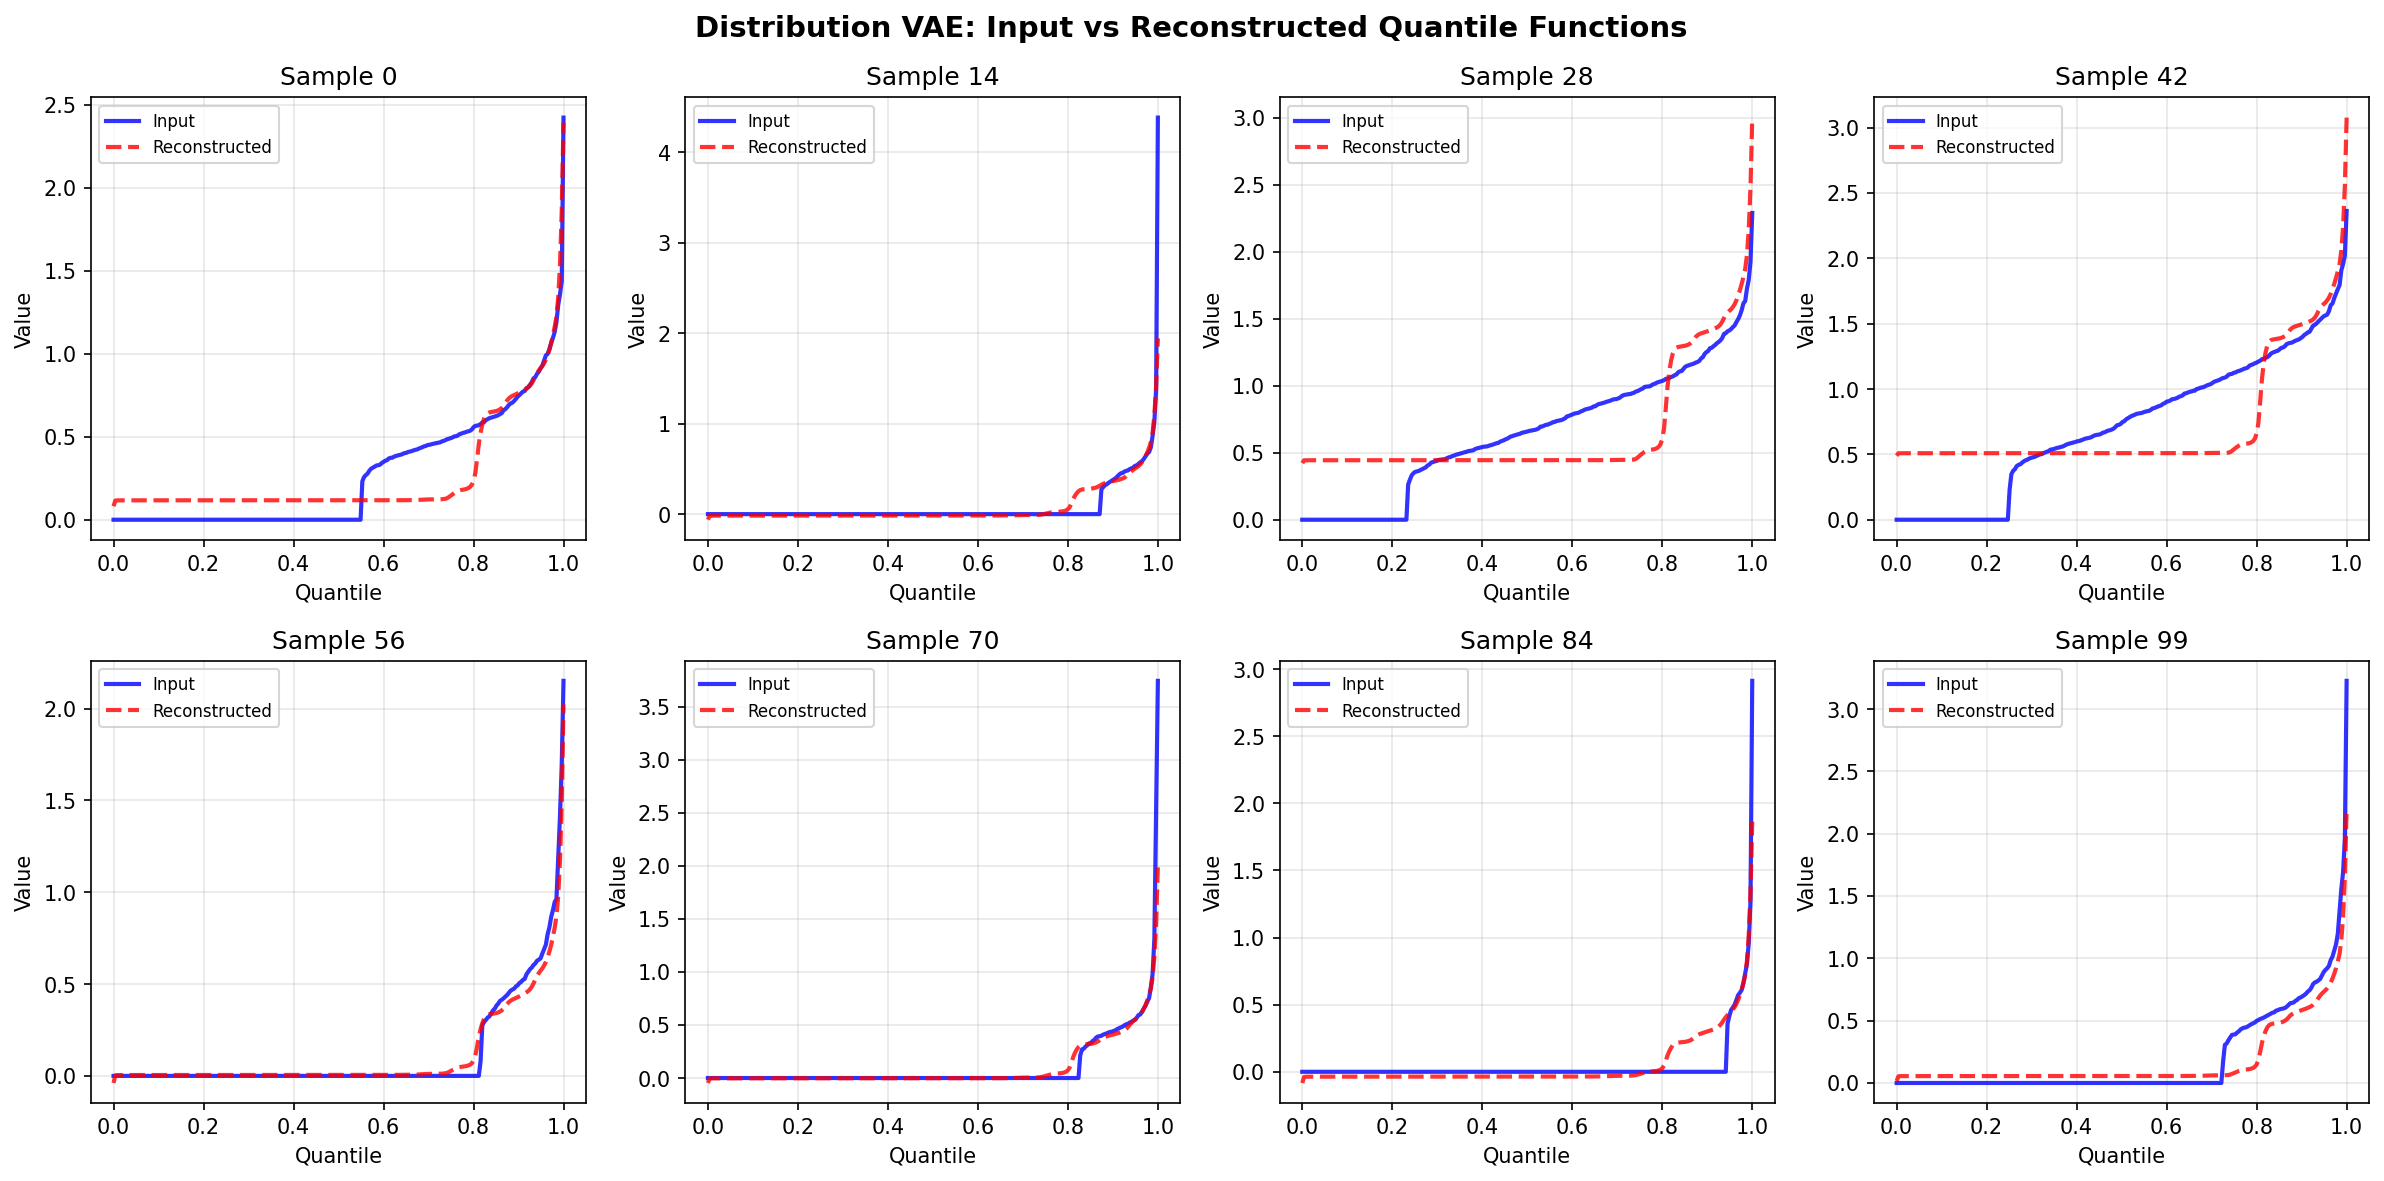
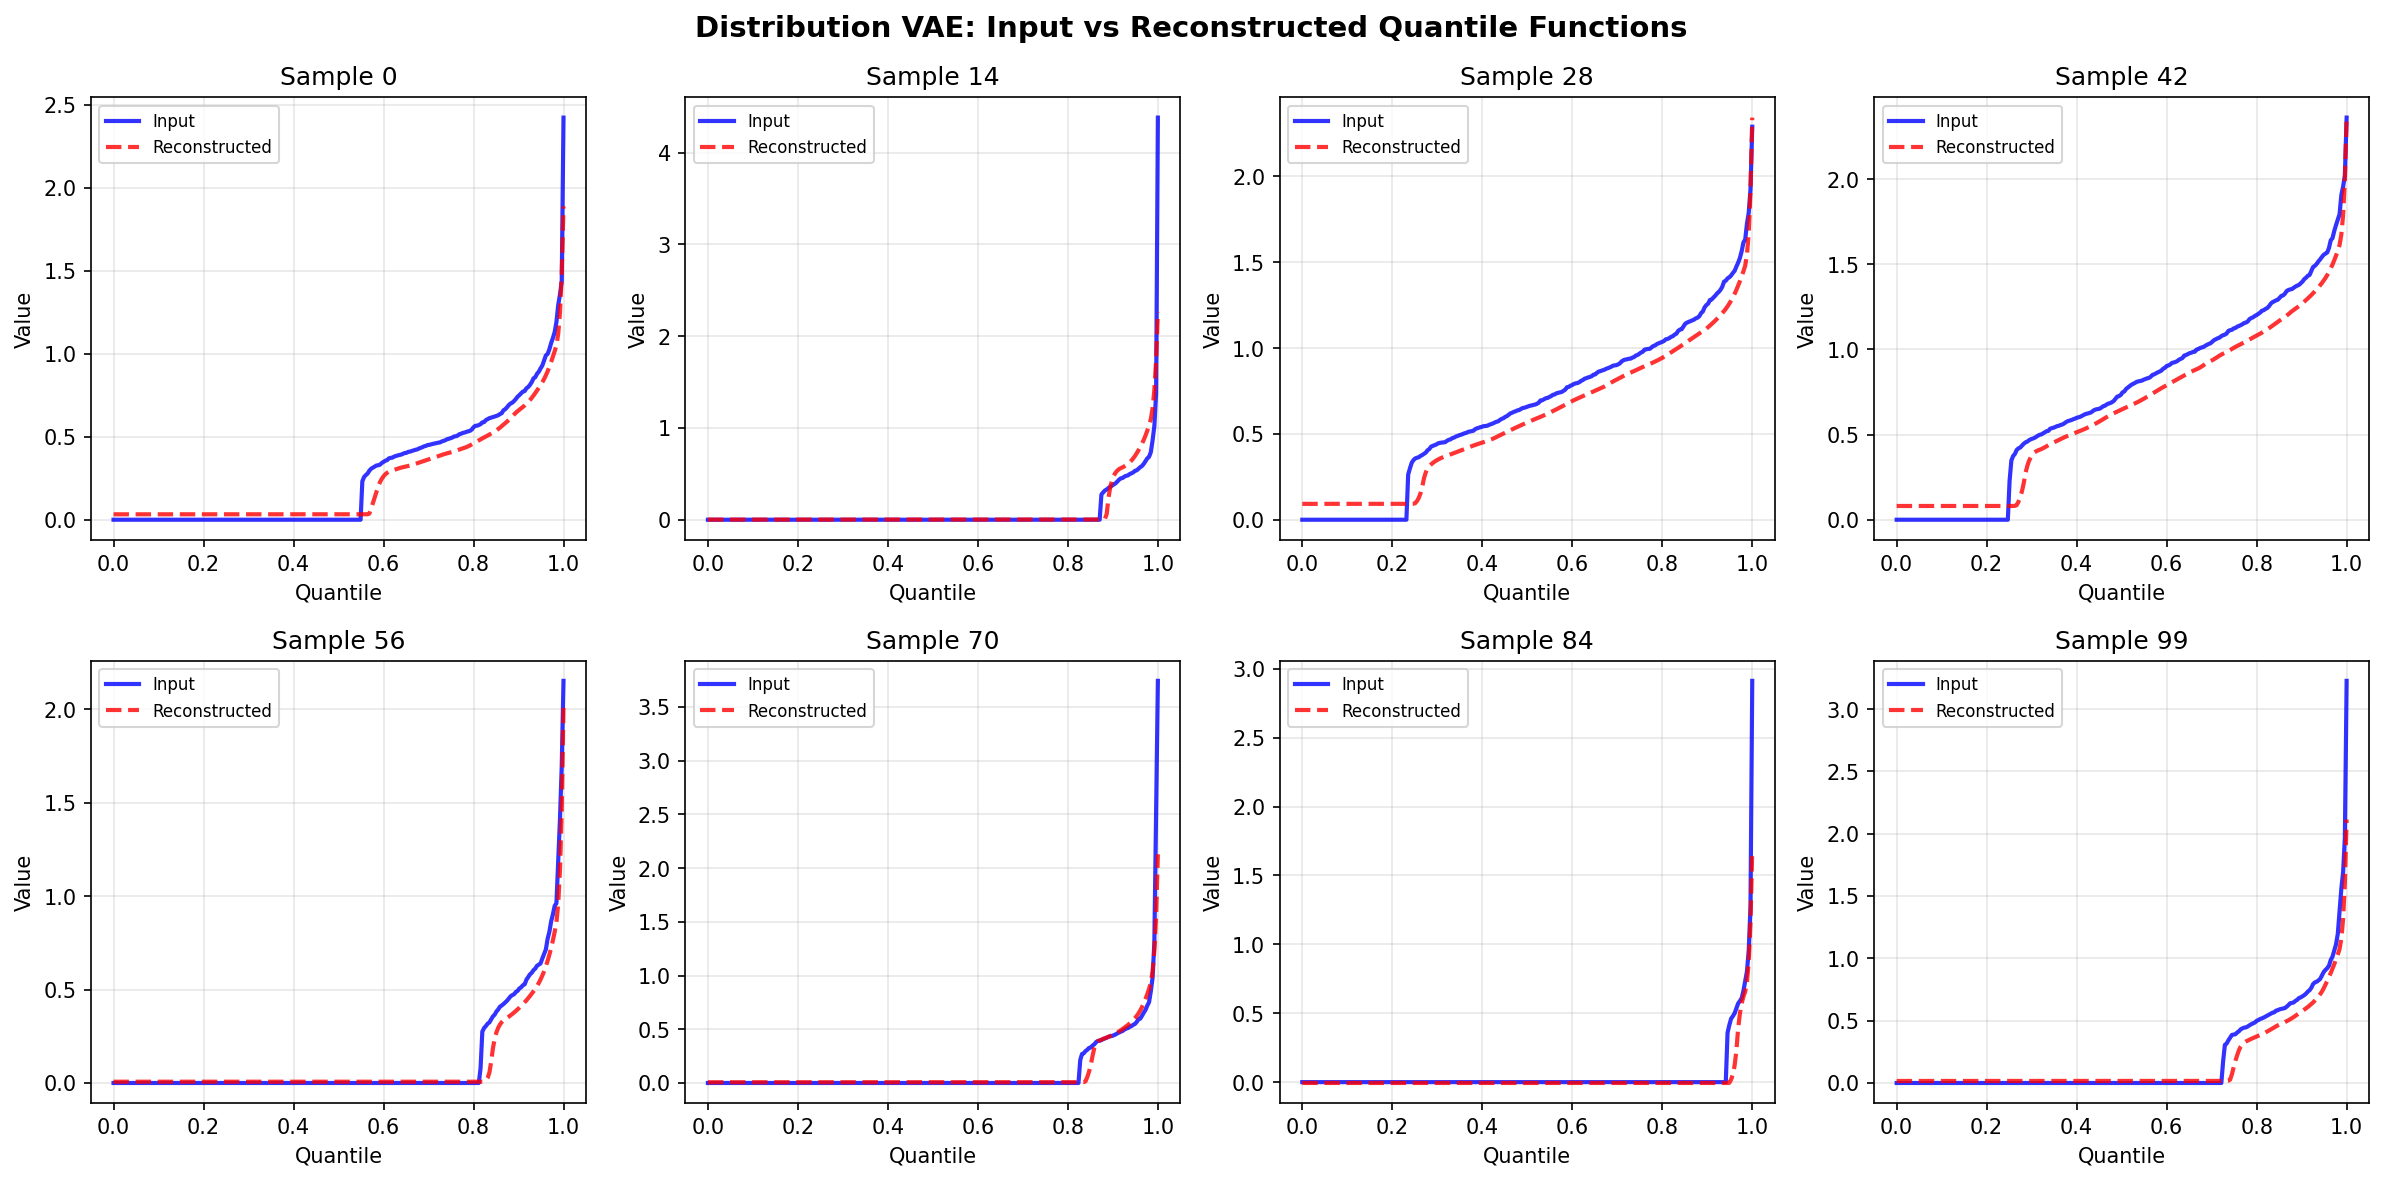
[autoresearch] optimize Cramer loss: +density matching, residual blocks, BatchNorm, cosine LR — val_kl=0.000021

diff --git a/autoresearch/train.py b/autoresearch/train.py
@@ -45,15 +45,16 @@ from prepare import (
 # ============================================================================
 
 LATENT_DIM = 16
-HIDDEN_DIM = 128
-BETA = 0.0001            # KL weight
-BETA_WARMUP_EPOCHS = 20  # Linear warmup from 0 to BETA
+HIDDEN_DIM = 256
+BETA = 0.00005           # KL weight (lower to let recon dominate)
+BETA_WARMUP_EPOCHS = 30  # Linear warmup from 0 to BETA
 FREE_BITS = 0.0          # Per-dim KL floor (0 = disabled)
-LR = 1e-3
+LR = 5e-4
 WEIGHT_DECAY = 1e-4
 GRAD_CLIP = 1.0
 BATCH_SIZE = 256
 SEED = 42
+DENSITY_WEIGHT = 0.1     # Weight for density matching loss (targets KL metric)
 
 # ============================================================================
 # LOSS FUNCTIONS — feel free to modify or add new ones
@@ -98,48 +99,78 @@ def density_matching_loss(
 
 
 class DistributionEncoder(nn.Module):
-    """1D CNN encoder: quantile grid -> (mu, logvar)."""
+    """1D CNN encoder with residual blocks: quantile grid -> (mu, logvar)."""
 
     def __init__(self, grid_size: int, latent_dim: int, hidden_dim: int) -> None:
         super().__init__()
-        self.convs = nn.Sequential(
-            nn.Conv1d(1, hidden_dim // 4, kernel_size=7, stride=2, padding=3),
-            nn.GELU(),
-            nn.Conv1d(hidden_dim // 4, hidden_dim // 2, kernel_size=5, stride=2, padding=2),
-            nn.GELU(),
-            nn.Conv1d(hidden_dim // 2, hidden_dim, kernel_size=3, stride=2, padding=1),
-            nn.GELU(),
-            nn.AdaptiveAvgPool1d(1),
-        )
+        c1, c2, c3 = hidden_dim // 4, hidden_dim // 2, hidden_dim
+
+        # Downsample path
+        self.conv1 = nn.Conv1d(1, c1, kernel_size=7, stride=2, padding=3)
+        self.bn1 = nn.BatchNorm1d(c1)
+        self.conv2 = nn.Conv1d(c1, c2, kernel_size=5, stride=2, padding=2)
+        self.bn2 = nn.BatchNorm1d(c2)
+        self.conv3 = nn.Conv1d(c2, c3, kernel_size=3, stride=2, padding=1)
+        self.bn3 = nn.BatchNorm1d(c3)
+
+        # Residual block at full channel width
+        self.res_conv1 = nn.Conv1d(c3, c3, kernel_size=3, padding=1)
+        self.res_bn1 = nn.BatchNorm1d(c3)
+        self.res_conv2 = nn.Conv1d(c3, c3, kernel_size=3, padding=1)
+        self.res_bn2 = nn.BatchNorm1d(c3)
+
+        self.pool = nn.AdaptiveAvgPool1d(1)
         self.fc_mu = nn.Linear(hidden_dim, latent_dim)
         self.fc_logvar = nn.Linear(hidden_dim, latent_dim)
 
     def forward(self, x: torch.Tensor) -> tuple[torch.Tensor, torch.Tensor]:
-        h = self.convs(x.unsqueeze(1)).squeeze(-1)
+        h = F.gelu(self.bn1(self.conv1(x.unsqueeze(1))))
+        h = F.gelu(self.bn2(self.conv2(h)))
+        h = F.gelu(self.bn3(self.conv3(h)))
+        # Residual block
+        r = F.gelu(self.res_bn1(self.res_conv1(h)))
+        h = h + self.res_bn2(self.res_conv2(r))
+        h = F.gelu(h)
+        h = self.pool(h).squeeze(-1)
         return self.fc_mu(h), self.fc_logvar(h)
 
 
 class DistributionDecoder(nn.Module):
-    """1D CNN decoder with monotonicity enforcement: z -> quantile grid."""
+    """1D CNN decoder with residual block + monotonicity enforcement: z -> quantile grid."""
 
     def __init__(self, grid_size: int, latent_dim: int, hidden_dim: int) -> None:
         super().__init__()
         self.grid_size = grid_size
         self.hidden_dim = hidden_dim
         self.initial_length = 8
+        c1, c2 = hidden_dim // 2, hidden_dim // 4
 
         self.fc = nn.Linear(latent_dim, hidden_dim * self.initial_length)
-        self.deconvs = nn.Sequential(
-            nn.ConvTranspose1d(hidden_dim, hidden_dim // 2, kernel_size=4, stride=2, padding=1),
-            nn.GELU(),
-            nn.ConvTranspose1d(hidden_dim // 2, hidden_dim // 4, kernel_size=4, stride=2, padding=1),
-            nn.GELU(),
-            nn.ConvTranspose1d(hidden_dim // 4, 1, kernel_size=4, stride=2, padding=1),
-        )
+        self.bn_fc = nn.BatchNorm1d(hidden_dim)
+
+        self.deconv1 = nn.ConvTranspose1d(hidden_dim, c1, kernel_size=4, stride=2, padding=1)
+        self.bn1 = nn.BatchNorm1d(c1)
+        self.deconv2 = nn.ConvTranspose1d(c1, c2, kernel_size=4, stride=2, padding=1)
+        self.bn2 = nn.BatchNorm1d(c2)
+
+        # Residual refinement at c2 channels
+        self.res_conv1 = nn.Conv1d(c2, c2, kernel_size=3, padding=1)
+        self.res_bn1 = nn.BatchNorm1d(c2)
+        self.res_conv2 = nn.Conv1d(c2, c2, kernel_size=3, padding=1)
+        self.res_bn2 = nn.BatchNorm1d(c2)
+
+        self.deconv3 = nn.ConvTranspose1d(c2, 1, kernel_size=4, stride=2, padding=1)
 
     def forward(self, z: torch.Tensor) -> torch.Tensor:
         h = self.fc(z).view(-1, self.hidden_dim, self.initial_length)
-        h = self.deconvs(h).squeeze(1)
+        h = F.gelu(self.bn_fc(h))
+        h = F.gelu(self.bn1(self.deconv1(h)))
+        h = F.gelu(self.bn2(self.deconv2(h)))
+        # Residual block
+        r = F.gelu(self.res_bn1(self.res_conv1(h)))
+        h = h + self.res_bn2(self.res_conv2(r))
+        h = F.gelu(h)
+        h = self.deconv3(h).squeeze(1)
         if h.shape[-1] != self.grid_size:
             h = F.interpolate(
                 h.unsqueeze(1), size=self.grid_size, mode="linear", align_corners=True
@@ -190,9 +221,10 @@ class DistributionVAE(nn.Module):
         mu: torch.Tensor,
         logvar: torch.Tensor,
     ) -> dict[str, torch.Tensor]:
-        # Reconstruction loss: Cramer distance (MSE between quantile grids)
-        # Directly penalizes pointwise reconstruction error
-        recon_loss = cramer_distance(input_grid, recon).mean()
+        # Reconstruction loss: Cramer (pointwise) + density matching (targets KL metric)
+        cramer = cramer_distance(input_grid, recon).mean()
+        density = density_matching_loss(input_grid, recon).mean()
+        recon_loss = cramer + DENSITY_WEIGHT * density
 
         # KL divergence
         kl_per_dim = 0.5 * (mu.pow(2) + logvar.exp() - 1 - logvar)
@@ -235,8 +267,9 @@ def train() -> None:
     n_params = sum(p.numel() for p in model.parameters())
     print(f"Parameters: {n_params:,}")
 
-    # Optimizer
+    # Optimizer + cosine annealing scheduler
     optimizer = torch.optim.AdamW(model.parameters(), lr=LR, weight_decay=WEIGHT_DECAY)
+    scheduler = torch.optim.lr_scheduler.CosineAnnealingLR(optimizer, T_max=2500, eta_min=1e-5)
 
     # ---- Training loop (time-budgeted) ----
     import copy
@@ -272,10 +305,11 @@ def train() -> None:
             epoch_loss += losses["total"].item()
             n_batches += 1
 
+        scheduler.step()
         avg_loss = epoch_loss / max(n_batches, 1)
 
-        # Eval every epoch for optimal checkpointing
-        if True:
+        # Eval every 5 epochs to save time for more training
+        if epoch % 5 == 0 or elapsed > TIME_BUDGET - 15:
             metrics = evaluate(model, val_loader, device)
             vkl = metrics["val_kl_divergence"]
             ad = metrics["active_dims"]
